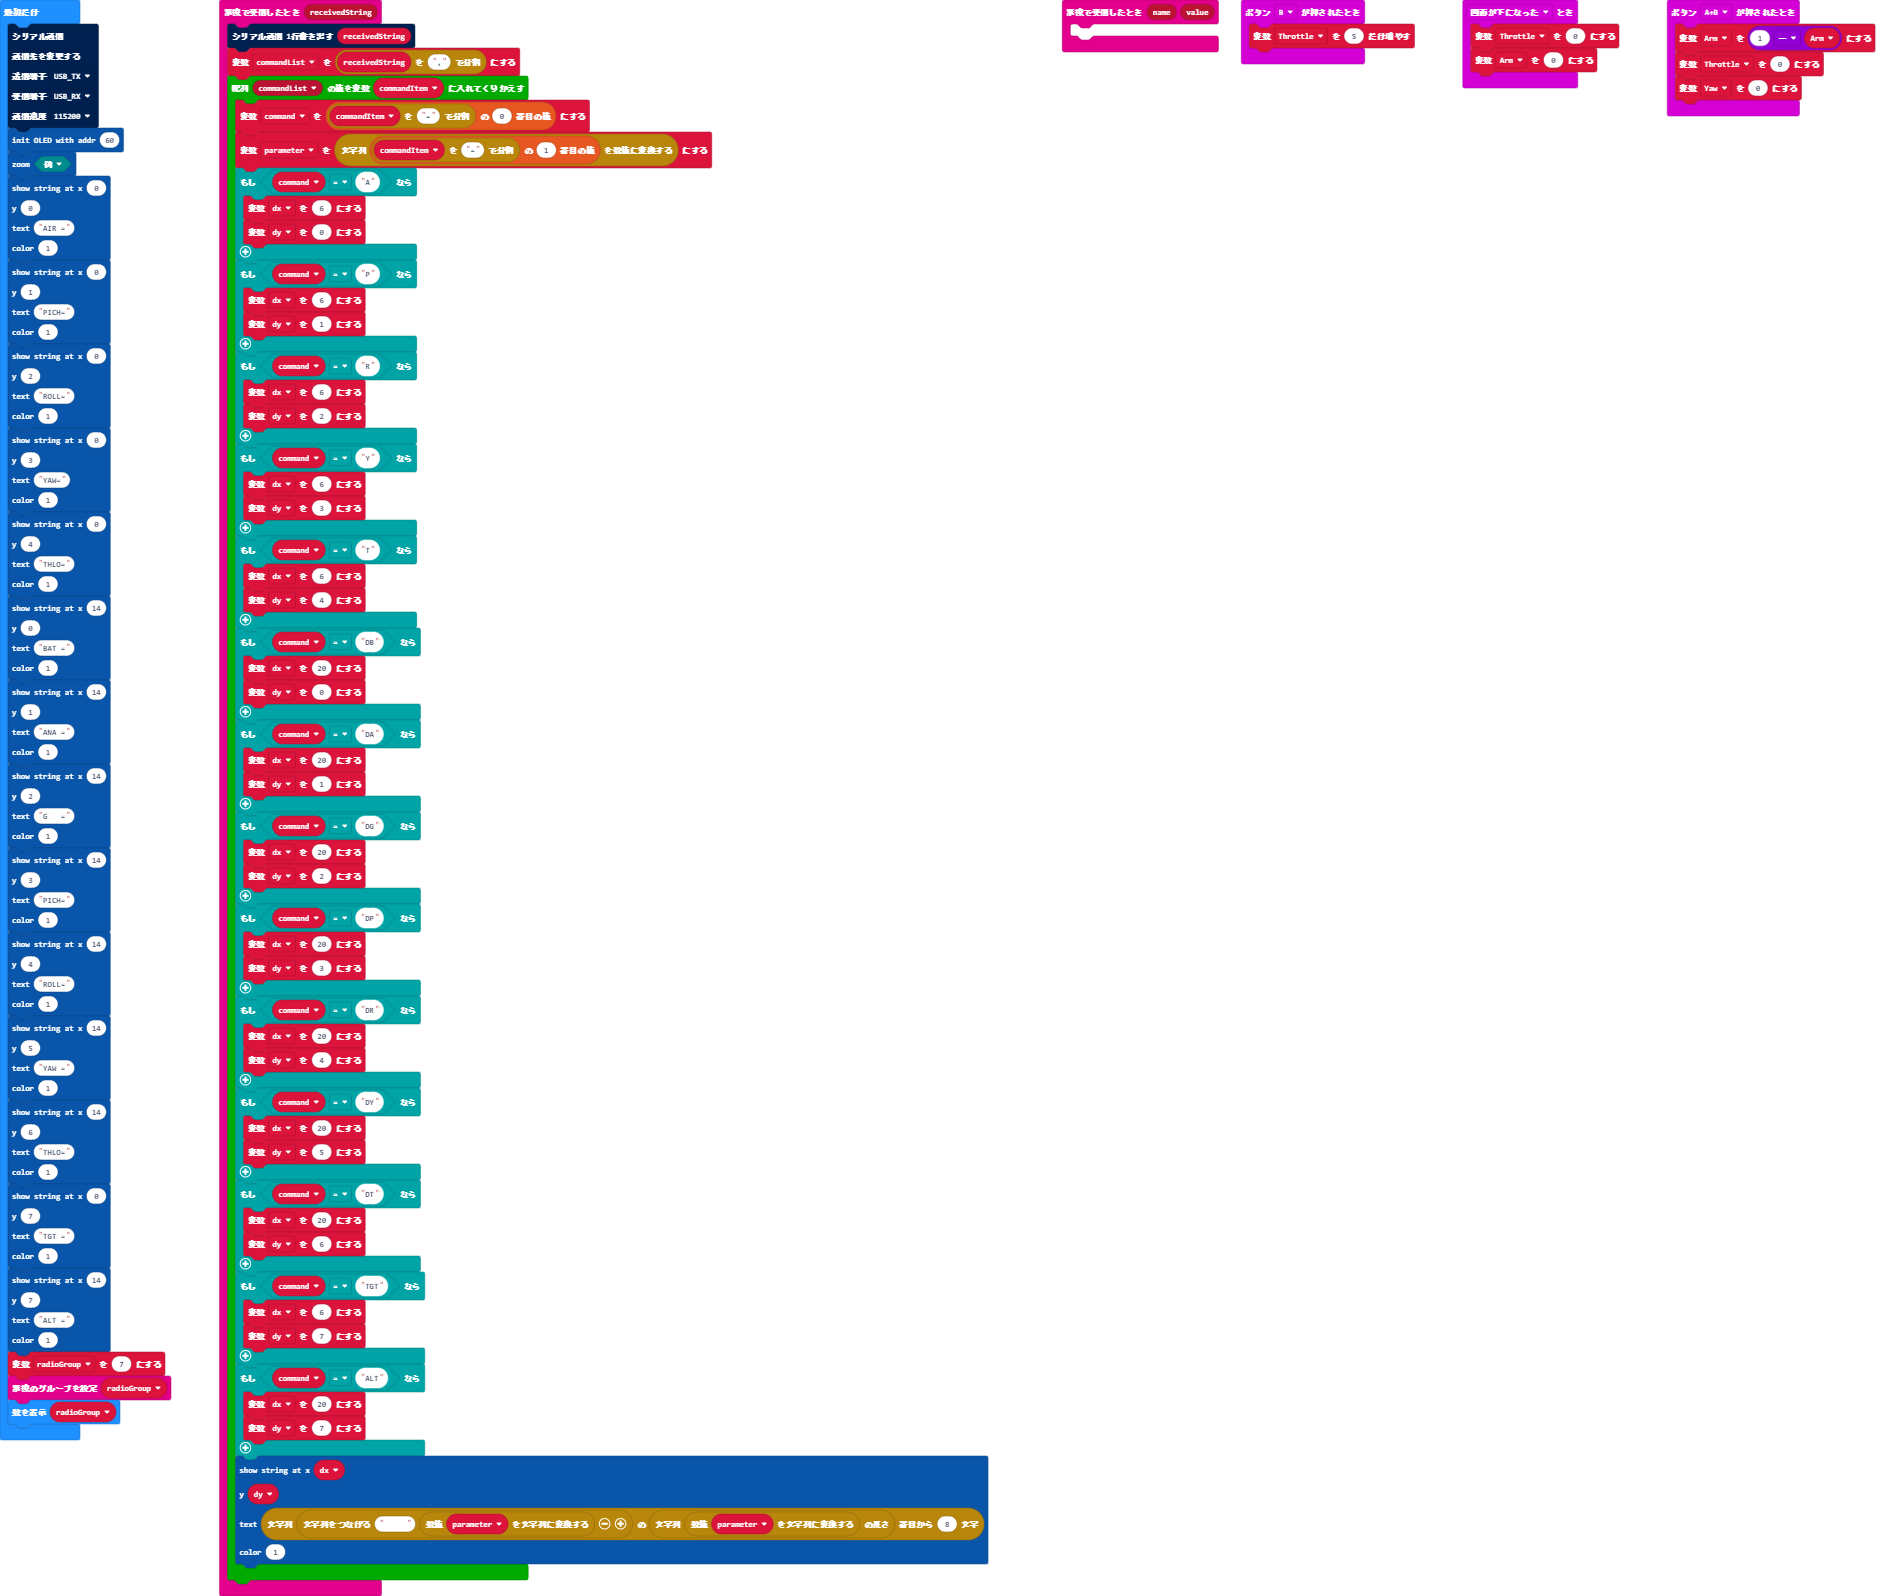
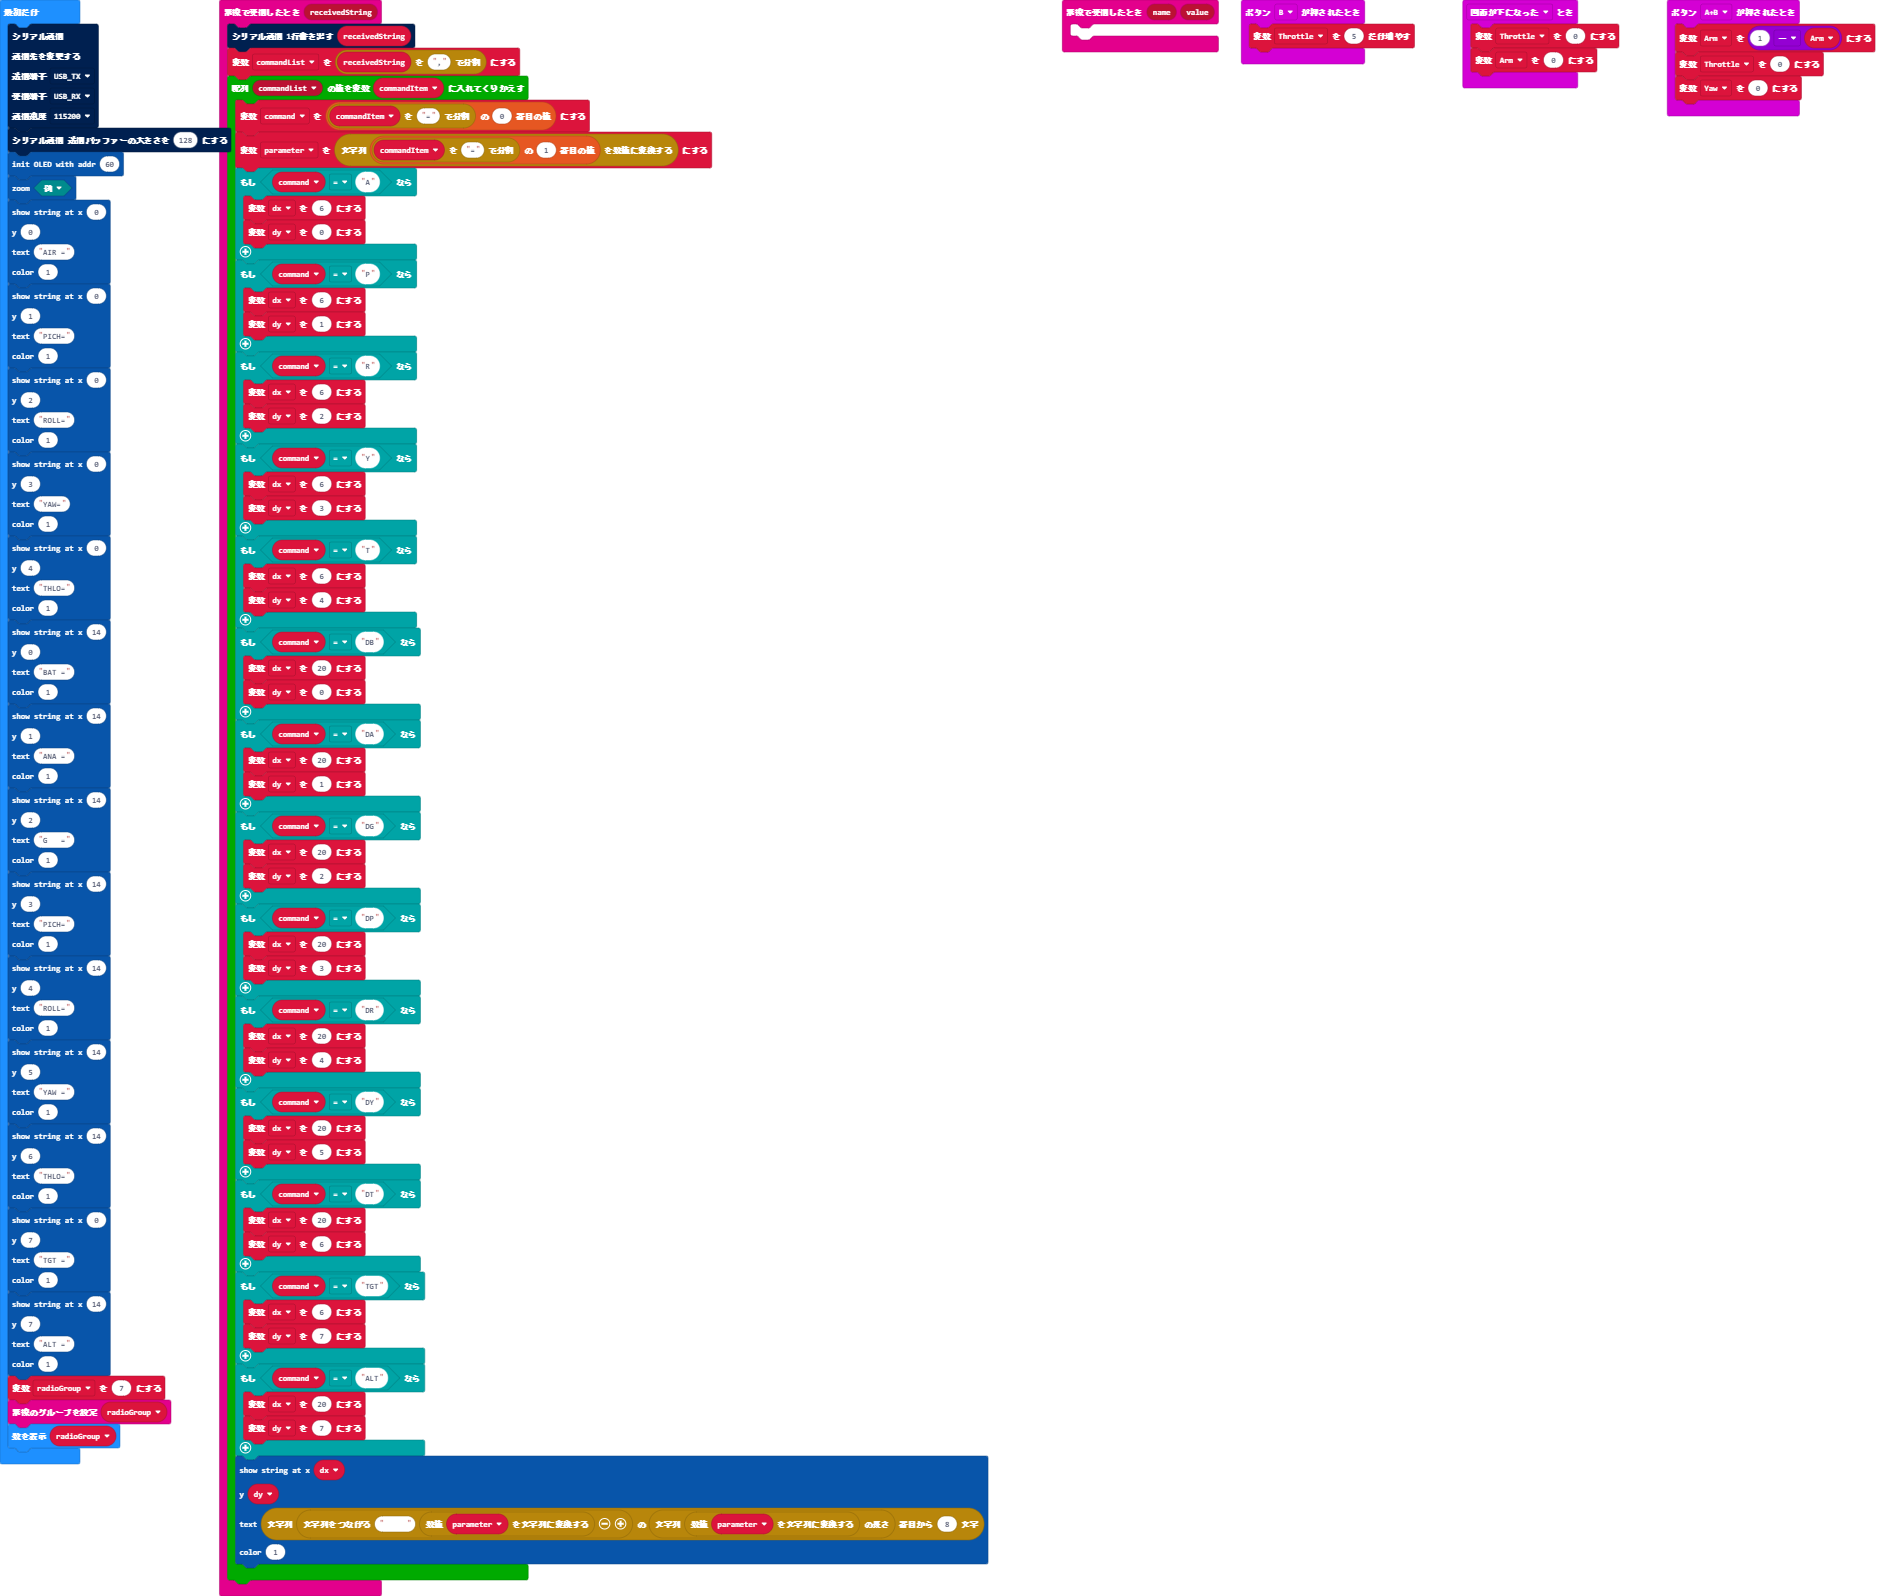
Update main.blocks, main.ts

Changed region(s): [[0.0, 0.0614, 0.1241, 0.9211], [0.1862, 0.0, 0.2173, 0.0307]]

diff --git a/main.ts b/main.ts
@@ -96,6 +96,7 @@ SerialPin.USB_TX,
 SerialPin.USB_RX,
 BaudRate.BaudRate115200
 )
+serial.setTxBufferSize(128)
 OLED12864_I2C.init(60)
 OLED12864_I2C.zoom(false)
 OLED12864_I2C.showString(
